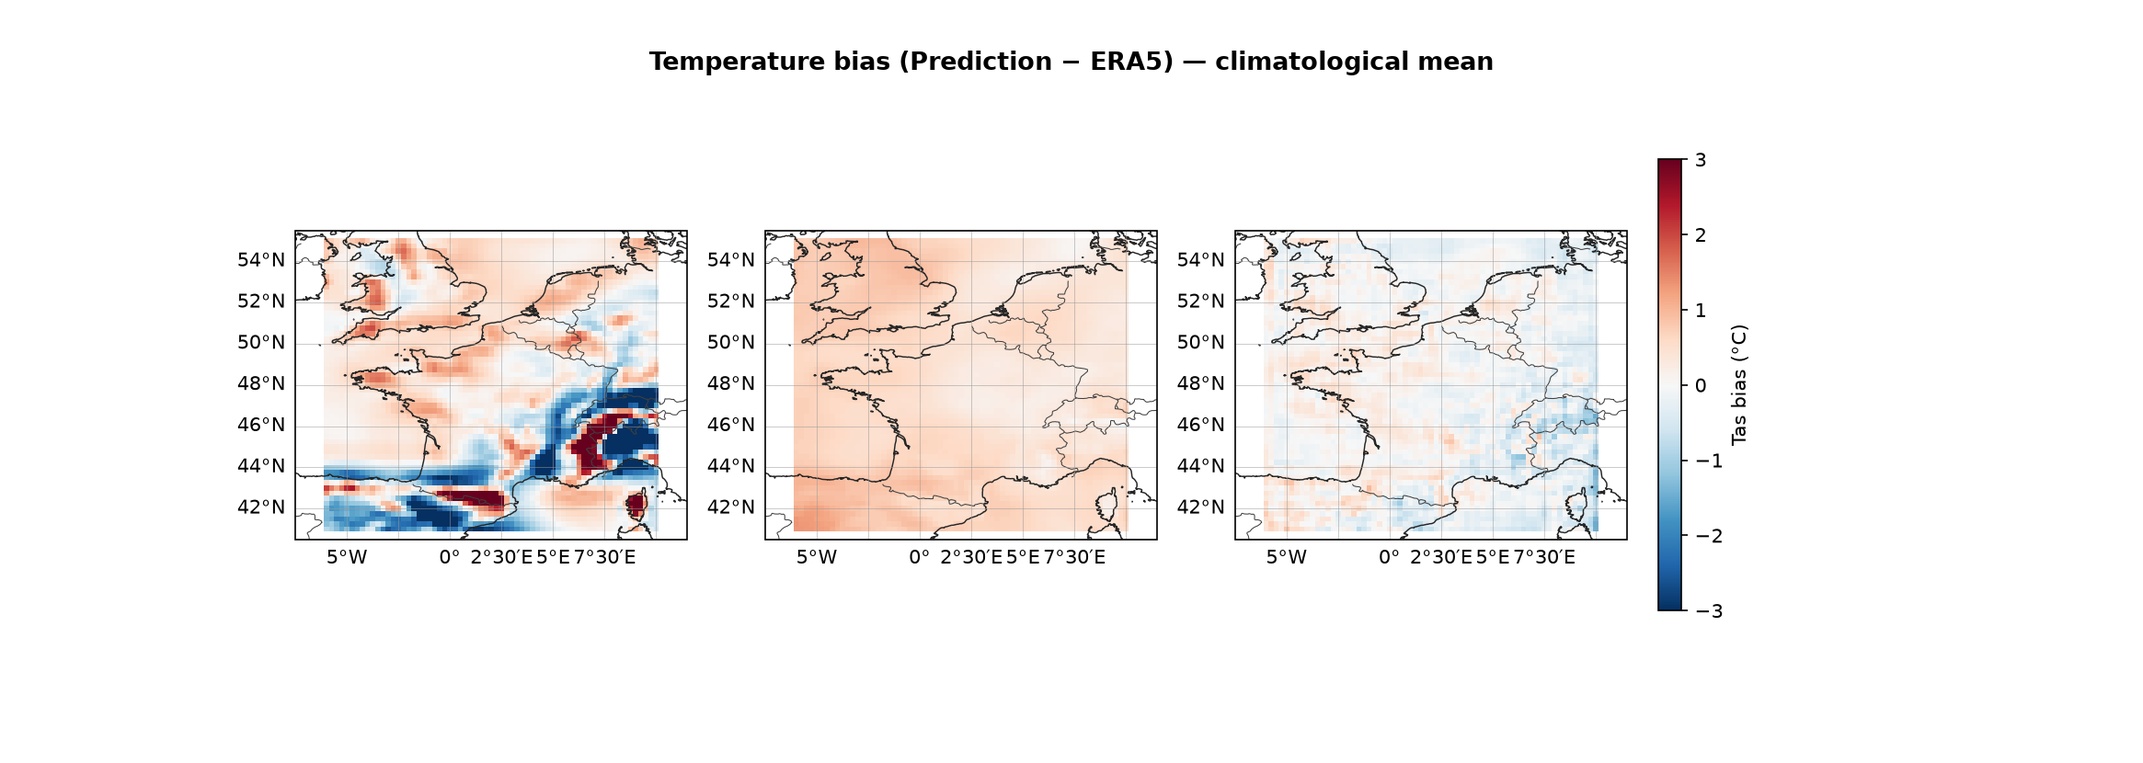
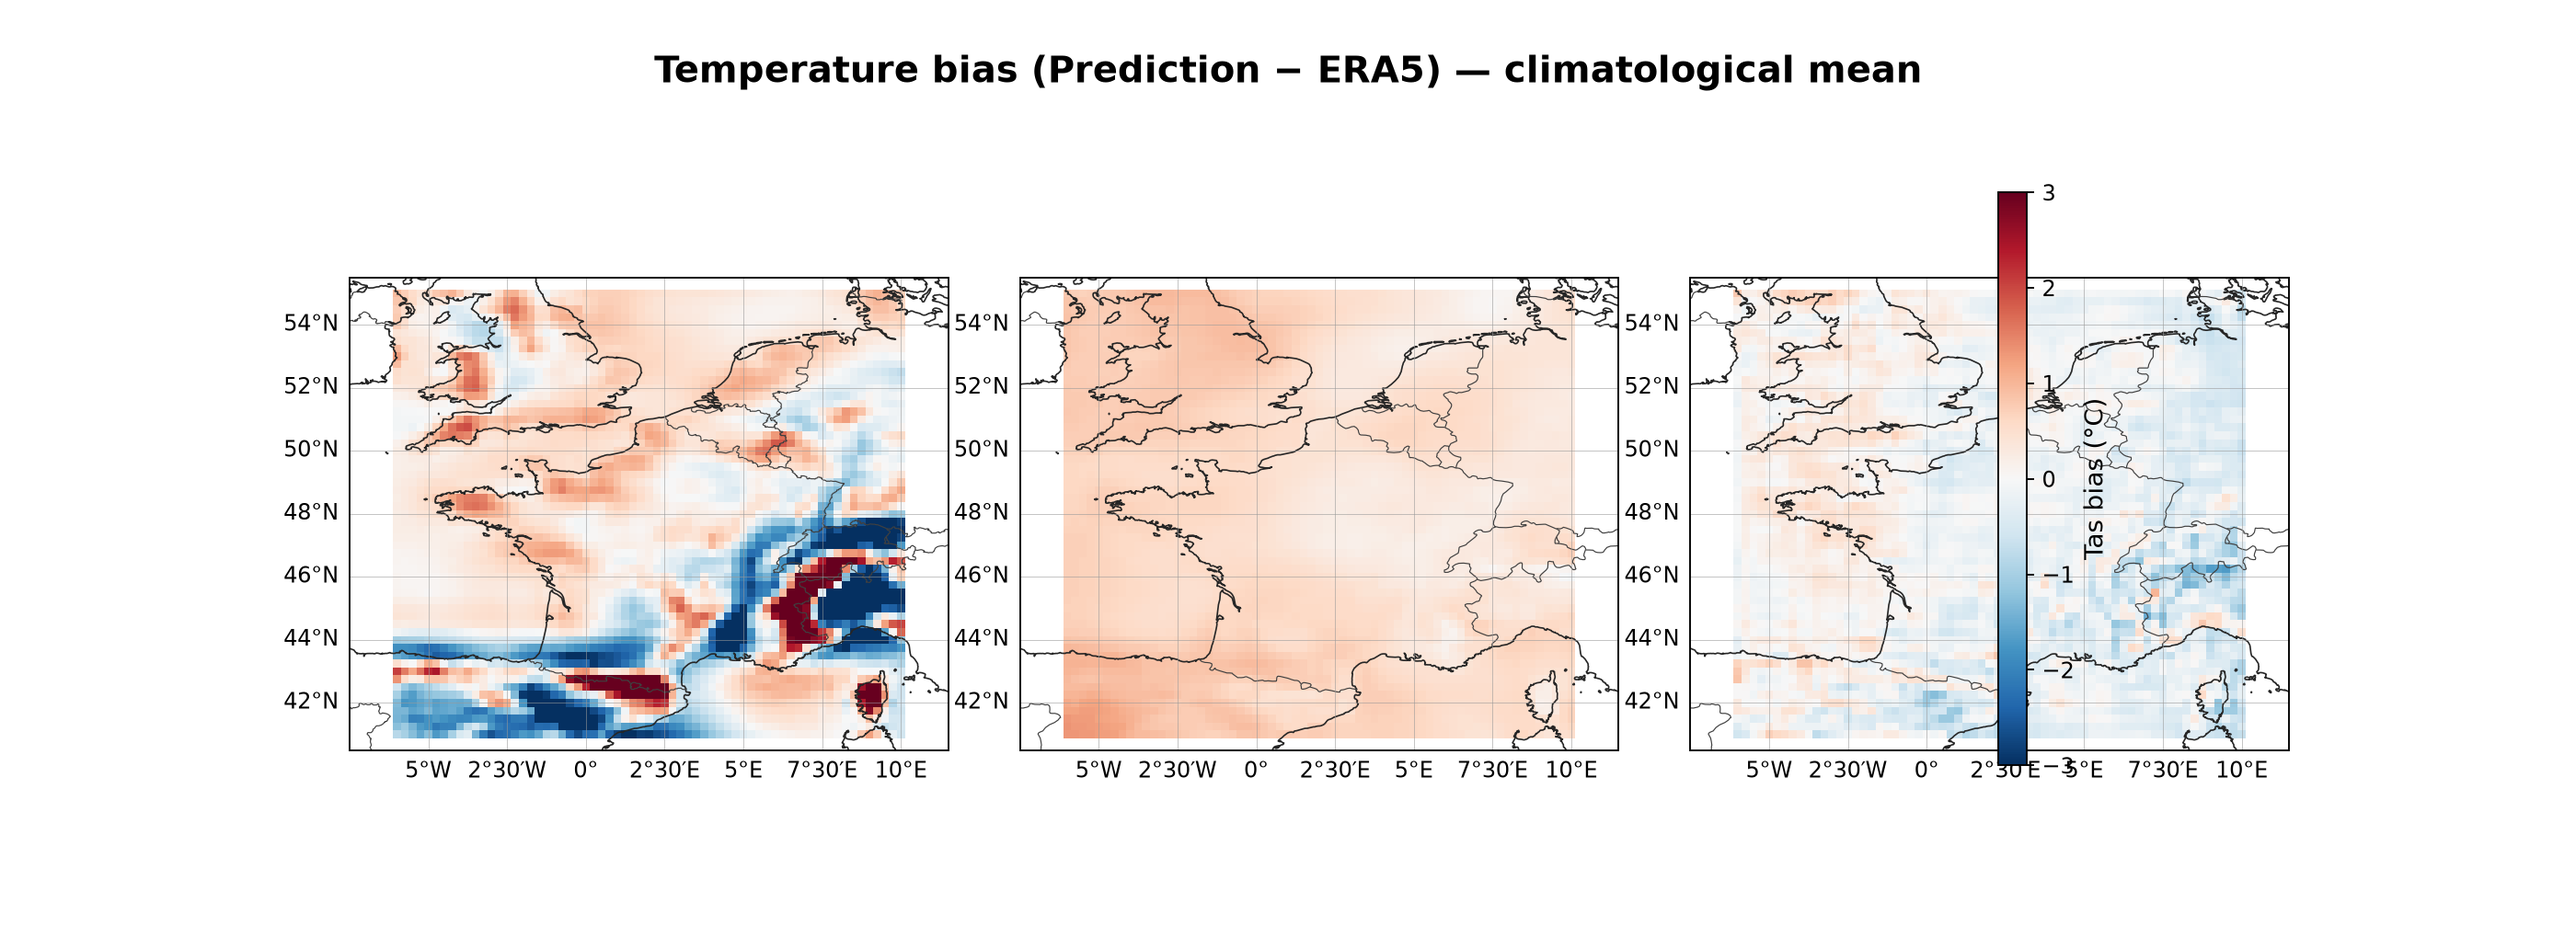
Dashboard copy pass: restore titles/size on bias figure, bullets, AI footer
- References/Cite expander labels no longer render a literal '##'
- Regenerate bias_comparison.png with per-panel titles + suptitle, larger
  fonts and canvas; widen dashboard display to 1400px
- Section 4: PP and MOS/BC as a bullet list instead of headings
- Protocol table: Reference window now region-aware (France 1979-2020)
- Section 6: separate why-distribution (pt 1) from which-aspects (pt 2) and
  how-to-score (pt 3); drop the misleading 'three reasons' framing
- CORDEX entry: note RCM/GCM calendar alignment enables paired supervised
  emulation benchmarks, unlike our unpaired ERA5 evaluation
- Add AI-use disclosure footer below every tab

Changed region(s): [[0.0927, 0.1807, 0.8961, 0.8133], [0.2472, 0.0602, 0.7416, 0.0904]]

diff --git a/src/dashboard/dashboard.py b/src/dashboard/dashboard.py
@@ -705,9 +705,12 @@ BENCHMARK_CONTEXT = {
         "<b>Settings:</b> ~12 km (EURO-CORDEX) over whole Europe; many variables; a handful of "
         "GCM-RCM chains. "
         "<b>Metrics:</b> mostly mean-climate and extremes diagnostics. "
-        "<b>What differs:</b> we inter-compare statistical and machine-learning methods on a "
-        "<i>single</i> GCM instead of RCM chains — cheaper, and isolates the baseline effect, but we "
-        "lose RCM process realism and multi-GCM spread."
+        "<b>What differs:</b> an RCM is calendar-aligned to its driver (reanalysis or GCM), "
+        "so it enables paired, supervised RCM-emulation benchmarks; our fine truth is observed "
+        "ERA5, which is not aligned to the free-running GCM, so we evaluate unpaired "
+        "(distribution metrics + fidelity vs the GCM). We also inter-compare statistical and "
+        "machine-learning methods on a <i>single</i> GCM instead of RCM chains — cheaper, and "
+        "isolates the baseline effect, but we lose RCM process realism and multi-GCM spread."
     ),
     "ISIMIP — <a href='https://doi.org/10.5194/gmd-10-4321-2017' target='_blank'>Frieler et al. (2017)</a>": (
         "<b>Protocol:</b> harmonised <b>bias-correction</b> (ISIMIP3BASD) of GCM output feeding "
@@ -1025,6 +1028,7 @@ with tab_welcome:
         _wl_region = EXPERIMENT_LABELS.get(_selected, _selected)
         _wl_gcm = _gcm_label(_selected_gcm)
         _wl_mesh = GCM_MESH.get(_selected_gcm, "")
+        _wl_era5 = "1979–2020" if _selected == "france" else "1979–2022"
         st.markdown(
             "Use the links below to jump between sections. Each section first defines the "
             "concept it needs, then explains what it means for this benchmark."
@@ -1132,13 +1136,11 @@ with tab_welcome:
             "respecting both the GCM's climate signal and the observed climate. Two "
             "philosophies scaffold the literature "
             "([Maraun et al., 2010](https://doi.org/10.1029/2009rg000314)):\n"
-            "### Perfect prognosis (PP)\n"
-            "PP learns the coarse→fine mapping from *reanalysis "
+            "- **Perfect prognosis (PP).** Learns the coarse→fine mapping from *reanalysis "
             "pairs only* (coarse ERA5 degraded to GCM-like resolution → fine ERA5), then "
             "applies the learned map to real GCM fields. It keeps the GCM's signal by "
-            "assuming the GCM \"sees\" like the reanalysis.\n\n"
-            "### Model output statistics / bias correction (MOS/BC)\n"
-            "MOS/BC learns the mapping "
+            "assuming the GCM \"sees\" like the reanalysis.\n"
+            "- **Model output statistics / bias correction (MOS/BC).** Learns the mapping "
             "between a *specific GCM's* output and observations, removing that GCM's bias "
             "directly but risking distortion of its future signal.\n\n"
             "### The method spectrum\n"
@@ -1217,7 +1219,7 @@ with tab_welcome:
             "| Item | Setting |\n"
             "|---|---|\n"
             f"| **Region box** | {_wl_region} — 57×65 cells at ≈0.25° |\n"
-            "| **Reference** | ERA5 pseudo-observations; daily 1979–2022 (France 1979–2020) |\n"
+            f"| **Reference** | ERA5 pseudo-observations; daily {_wl_era5} |\n"
             f"| **GCM** | {_wl_gcm}; daily; IPSL-CM6A-LR & CNRM-CM6-1 under SSP3-7.0, CESM2 under SSP2-4.5 |\n"
             "| **Calibration** | 1980–1999 — distribution baselines fit on the selected GCM; neural baselines on ERA5 coarse→fine pairs |\n"
             "| **Accuracy evaluation** | 2000–2020 vs ERA5 |\n"
@@ -1231,25 +1233,29 @@ with tab_welcome:
         st.markdown(
             "## 6 · Why distribution metrics — not MSE/MAE\n"
             "It is tempting to score downscaling with pointwise errors (MSE/MAE vs ERA5). "
-            "Three reasons make this wrong here:\n"
+            "Three distinct problems close that route; together they set the "
+            "evaluation design:\n"
             "1. **No fair pointwise truth exists.** GCM days (raw or downscaled) are not "
             "aligned to historical calendar dates, so there is no \"correct\" ERA5 value for "
             "a given GCM day to be compared against. Only *distributions* of many days are "
-            "comparable.\n"
-            "2. **Point errors miss what planning fears.** MSE/MAE are dominated by the "
-            "bulk of the distribution and are blind to the **tails** (heatwaves, droughts, "
-            "gusts), the **variability/autocorrelation** (does a bad day persist into a bad "
-            "week?), the **spatial structure** (wind correlated across a whole region), and "
-            "the **inter-variable links** (cold, calm nights push peak demand when wind and "
-            "solar both dip). Two series can share an identical RMSE and have totally "
-            "different tails "
+            "comparable. That alone is why we use distribution metrics.\n"
+            "2. **Point errors miss what planning fears.** Even with an aligned truth, "
+            "MSE/MAE are dominated by the bulk of the distribution — blind to the **tails** "
+            "(heatwaves, droughts, gusts), the **variability/autocorrelation** (does a bad "
+            "day persist into a bad week?), the **spatial structure** (wind correlated "
+            "across a whole region), and the **inter-variable links** (cold, calm nights "
+            "push peak demand when wind and solar both dip). Two series can share an "
+            "identical RMSE and have totally different tails "
             "([Maraun et al., 2010](https://doi.org/10.1029/2009rg000314); "
-            "[Gneiting & Raftery, 2007](https://doi.org/10.1198/016214506000001437)).\n"
+            "[Gneiting & Raftery, 2007](https://doi.org/10.1198/016214506000001437)). This "
+            "is why the distribution comparison isolates these aspects one at a time rather "
+            "than collapsing them into a single number.\n"
             "3. **The full target is a giant joint distribution.** Each method yields a "
             "5-variable, 57×65, 100-year field — tens of millions of values. Distance "
             "measures between such high-dimensional multivariate distributions (KS, energy "
             "distance…) converge slowly and depend on how you flatten space and time "
-            "([Székely & Rizzo, 2016](https://doi.org/10.1002/wics.1375)).\n\n"
+            "([Székely & Rizzo, 2016](https://doi.org/10.1002/wics.1375)). This is why we "
+            "do not score the whole object with a single distance.\n\n"
             "So we use two complementary views: **(a)** *monotone summary metrics* that "
             "isolate one distributional aspect at a time (KS statistics, extreme "
             "frequencies, autocorrelation, spatial spectra), computed separately against the "
@@ -1264,7 +1270,7 @@ with tab_welcome:
         # ── Residual bias image ─────────────────────────────────────────────
         st.markdown("### Why interpolation is not enough")
         if IMG_BIAS_COMPARISON.exists():
-            _center_image(str(IMG_BIAS_COMPARISON), max_width=1000)
+            _center_image(str(IMG_BIAS_COMPARISON), max_width=1400)
             st.caption(
                 "Climatological mean bias (Prediction − ERA5) for three baselines, with "
                 "coastlines. Bicubic merely interpolates the GCM, so its systematic "
@@ -1359,12 +1365,12 @@ with tab_welcome:
 
         # ── References ──────────────────────────────────────────────────────
         st.markdown('<a id="ww-refs"></a>', unsafe_allow_html=True)
-        with st.expander("## 📚 References — electricity-system climate sensitivity"):
+        with st.expander("📚 References — electricity-system climate sensitivity"):
             for area, cite in ELECTRICITY_REFS.items():
                 st.markdown(f"- **{area}.** {cite}")
 
         # ── Cite & data ─────────────────────────────────────────────────────
-        with st.expander("## 📖 Cite this benchmark, and where the data lives"):
+        with st.expander("📖 Cite this benchmark, and where the data lives"):
             st.markdown(
                 "- **Paper.** *In preparation* — a DOI/preprint link will be added here when "
                 "available (author list to be confirmed).\n"
@@ -2858,3 +2864,12 @@ if tab_load is not None:
                 )
             else:
                 st.info("No TAM metrics available for this selection.")
+
+# ── Footer (rendered below every tab) ────────────────────────────────────────
+st.divider()
+st.markdown(
+    "#### AI use\n"
+    "This dashboard was developed and is maintained with the help of AI coding "
+    "assistants (Claude / OpenCode), which were also used to help reproduce most "
+    "of the baseline results shown here."
+)

diff --git a/src/dashboard/generate_welcome_images.py b/src/dashboard/generate_welcome_images.py
@@ -138,7 +138,7 @@ def make_bias_comparison():
     methods = [("bicubic", "Bicubic"), ("dotc", "DOTC"), ("cm", "CM")]
     crs = ccrs.PlateCarree()
     fig, axes = plt.subplots(
-        1, 3, figsize=(15, 5), subplot_kw={"projection": crs},
+        1, 3, figsize=(16, 5.6), subplot_kw={"projection": crs},
     )
     vmin, vmax = -3, 3
     norm = TwoSlopeNorm(vmin=vmin, vcenter=0, vmax=vmax)
@@ -154,14 +154,16 @@ def make_bias_comparison():
             im = ax.pcolormesh(lon, lat, bias, cmap="RdBu_r", norm=norm, transform=crs)
         except Exception as e:
             ax.text(0.5, 0.5, f"No data\n({method})", ha="center", va="center",
-                    transform=ax.transAxes, fontsize=10, color="gray")
-        ax.set_title(label, fontsize=11, fontweight="bold")
+                    transform=ax.transAxes, fontsize=12, color="gray")
+        ax.set_title(label, fontsize=15, fontweight="bold", pad=8)
         _style_geo_axes(ax)
     if im is not None:
         cbar = fig.colorbar(im, ax=axes, shrink=0.85, pad=0.02)
-        cbar.set_label(f"{variable.title()} bias (°C)", fontsize=10)
-    fig.suptitle("Temperature bias (Prediction − ERA5) — climatological mean", fontsize=13, fontweight="bold")
-    _save_padded(fig, "bias_comparison.png", dpi=150)
+        cbar.set_label(f"{variable.title()} bias (°C)", fontsize=12)
+    fig.suptitle("Temperature bias (Prediction − ERA5) — climatological mean",
+                 fontsize=17, fontweight="bold")
+    fig.subplots_adjust(top=0.85, bottom=0.06, wspace=0.12)
+    _save_padded(fig, "bias_comparison.png", dpi=170)
     print(f"  Saved {OUT / 'bias_comparison.png'}")
 
 
